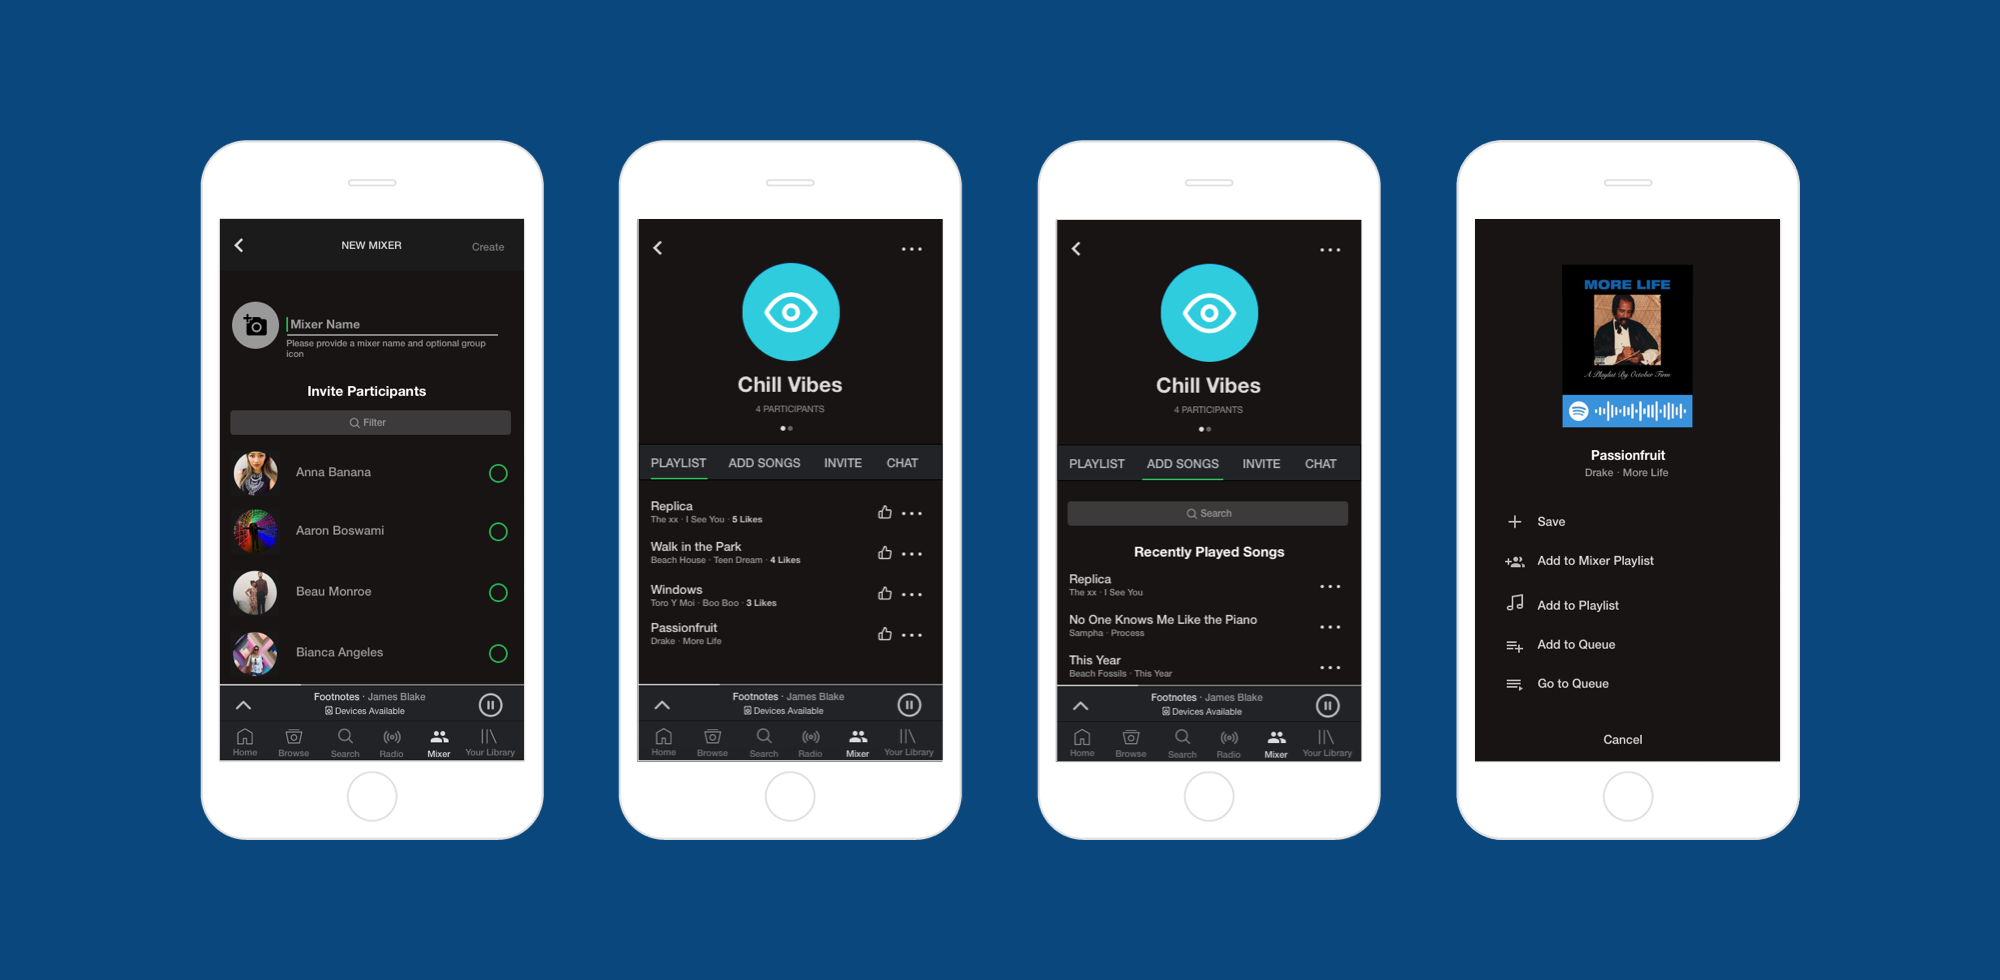
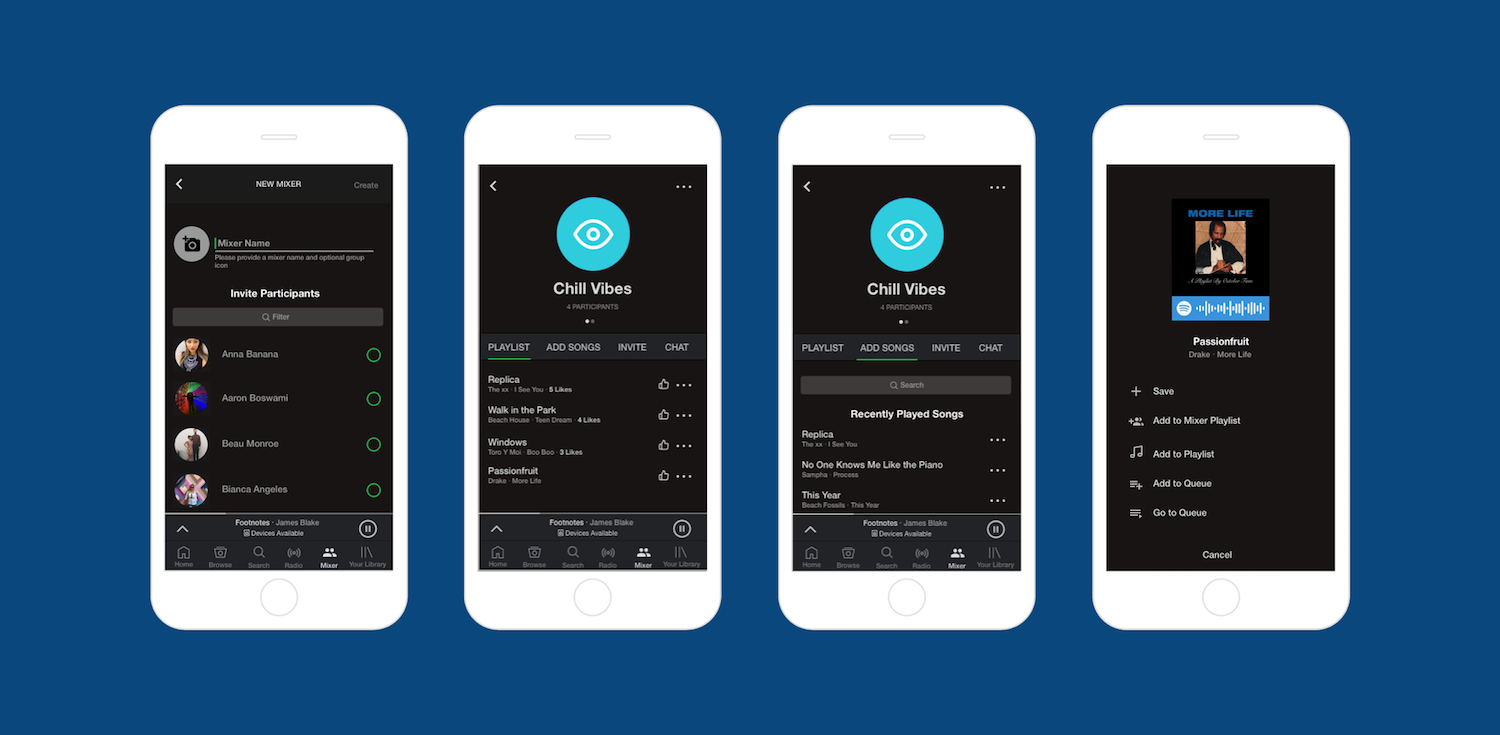
minimized hero and slider images files for case studies

diff --git a/826valencia.html b/826valencia.html
@@ -49,8 +49,8 @@
      <div class="grid-container full">
             <div class="grid-x">
               
-                  <div class="small-12" >
-                 <img src="images/826Valencia_ResponsiveUI_Hero.png" >
+                  <div class="small-12 hero-image" >
+                 <img src="images/826Valencia_ResponsiveUI_Hero_Min.jpg" width="100%">
                   </div>
               
           </div>
@@ -581,25 +581,25 @@
               <ul class="orbit-container">
                 <li class="is-active orbit-slide">
                   <figure class="orbit-figure" style="text-align: center;" >
-                    <img style="padding-right: 5%;" src="images/826Valencia_ResponsiveUI_Desktop.png" alt="Desktop UI"><br>
+                    <img style="padding-right: 5%;" src="images/826Valencia_ResponsiveUI_Desktop_Min.jpg" alt="Desktop UI"><br>
                   
                   </figure>
                 </li>
                  <li class="is-active orbit-slide">
                   <figure class="orbit-figure" style="text-align: center;" >
-                    <img style="padding-right: 5%;" src="images/826Valencia_ResponsiveUI_Desktop2.png" alt="Desktop UI"><br>
+                    <img style="padding-right: 5%;" src="images/826Valencia_ResponsiveUI_Desktop2_Min.jpg" alt="Desktop UI"><br>
                   
                   </figure>
                 </li>
                 <li class="orbit-slide">
                   <figure class="orbit-figure" style="text-align: center;">
-                    <img style="padding-right: 5%;"  src="images/826Valencia_ResponsiveUI_Tablet.png" alt="Tablet UI">
+                    <img style="padding-right: 5%;"  src="images/826Valencia_ResponsiveUI_Tablet_Min.jpg" alt="Tablet UI">
                   
                   </figure>
                 </li>
                 <li class="orbit-slide">
                   <figure class="orbit-figure" style="text-align: center;">
-                    <img style="padding-right: 5%;" src="images/826Valencia_ResponsiveUI_Mobile.png" alt="Mobile UI">
+                    <img style="padding-right: 5%;" src="images/826Valencia_ResponsiveUI_Mobile_Min.jpg" alt="Mobile UI">
                   
                   </figure>
                 </li>

diff --git a/instashop.html b/instashop.html
@@ -46,8 +46,8 @@
      <div class="grid-container full">
             <div class="grid-x">
               
-                  <div class="small-12" >
-                 <img src="images/Instashop_ResponsiveUI_Hero.png" >
+                  <div class="small-12 hero-image" >
+                 <img src="images/Instashop_ResponsiveUI_Hero_Min.jpg" width="100%" >
                   </div>
               
           </div>
@@ -570,25 +570,25 @@
               <ul class="orbit-container">
                 <li class="is-active orbit-slide">
                   <figure class="orbit-figure" style="text-align: center;" >
-                    <img style="padding-right: 5%;" src="images/Instashop_ResponsiveUI_Desktop.png" alt="Desktop UI"><br>
+                    <img style="padding-right: 5%;" src="images/Instashop_ResponsiveUI_Desktop_Min.jpg" alt="Desktop UI"><br>
                   
                   </figure>
                 </li>
                  <li class="is-active orbit-slide">
                   <figure class="orbit-figure" style="text-align: center;" >
-                    <img style="padding-right: 5%;" src="images/Instashop_ResponsiveUI_Desktop2.png" alt="Desktop UI"><br>
+                    <img style="padding-right: 5%;" src="images/Instashop_ResponsiveUI_Desktop2_Min.jpg" alt="Desktop UI"><br>
                   
                   </figure>
                 </li>
                 <li class="orbit-slide">
                   <figure class="orbit-figure" style="text-align: center;">
-                    <img style="padding-right: 5%;"  src="images/Instashop_ResponsiveUI_Tablet.png" alt="Tablet UI">
+                    <img style="padding-right: 5%;"  src="images/Instashop_ResponsiveUI_Tablet_Min.jpg" alt="Tablet UI">
                   
                   </figure>
                 </li>
                 <li class="orbit-slide">
                   <figure class="orbit-figure" style="text-align: center;">
-                    <img style="padding-right: 5%;" src="images/Instashop_ResponsiveUI_Mobile.png" alt="Mobile UI">
+                    <img style="padding-right: 5%;" src="images/Instashop_ResponsiveUI_Mobile_Min.jpg" alt="Mobile UI">
                   
                   </figure>
                 </li>

diff --git a/barkeep.html b/barkeep.html
@@ -48,8 +48,8 @@
      <div class="grid-container full">
             <div class="grid-x">
               
-                  <div class="small-12" >
-                 <img src="images/Barkeep_ResponsiveUI_Desktop.png" >
+                  <div class="small-12 hero-image" >
+                 <img src="images/Barkeep_ResponsiveUI_Desktop.png" width="100%" >
                   </div>
               
           </div>

diff --git a/spotifymixer.html b/spotifymixer.html
@@ -49,8 +49,8 @@
      <div class="grid-container full">
             <div class="grid-x">
               
-                  <div class="small-12" >
-                 <img src="images/Spotify_Final_Hero.png" >
+                  <div class="small-12 hero-image" >
+                 <img src="images/Spotify_Final_Hero.png" width="100%">
                   </div>
               
           </div>

diff --git a/css/app.css b/css/app.css
@@ -442,6 +442,11 @@
 
 }
 
+.hero-image {
+  margin: 0 auto !important; 
+  text-align: center;
+}
+
 .slider-block {
   margin-top: 40px;
   margin-bottom: 20px;
